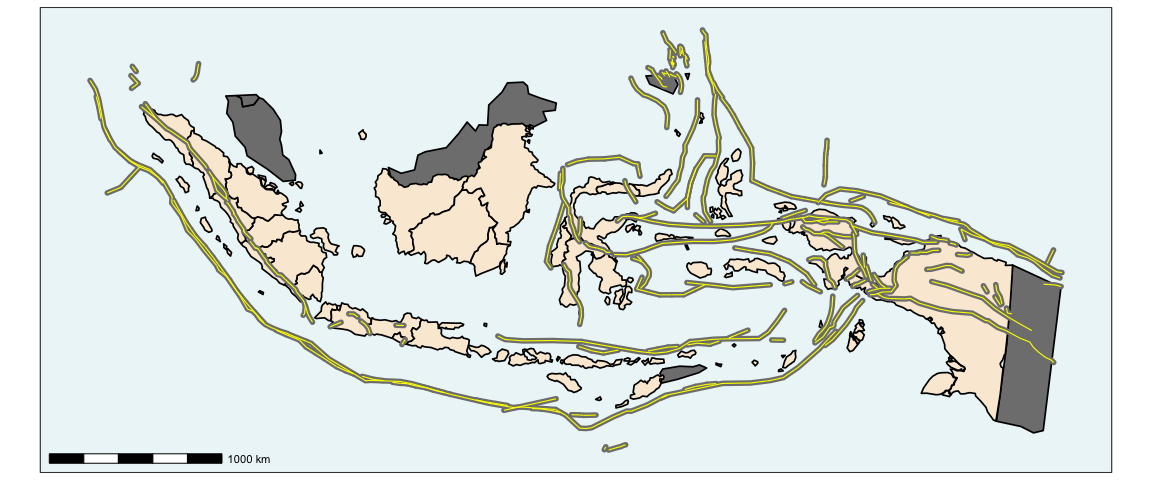
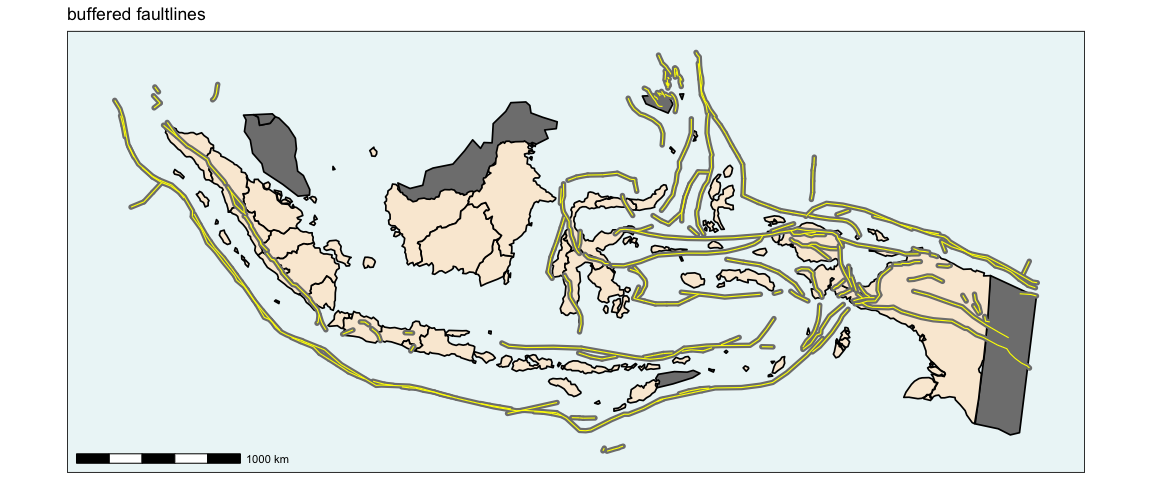
improved annotation

diff --git a/README.md b/README.md
@@ -143,11 +143,14 @@ The category of fault is an attribute of **faults_df**:
 
 #### faultline concentration
 
-To get an interpretable measure of faultline concentration in any area,
-they are transform from linestrings to polygons by setting a buffer of
-10km around them, as shown below. This is now in units of kilometres
-squared and be compared with the area of administrative units to give
-concentrations.
+To get an interpretable measure of faultline concentration in any area
+for use in **provinces_df** and **counties_df**, they are transformed
+from linestrings to polygons by setting a buffer of 10km around them, as
+shown below. This is now in units of kilometres squared and be compared
+with the area of administrative units to give concentrations.
+
+We can subsequently measure what proportion of any administrative unit
+is covered by these buffered faultlines.
 
 ![](README_files/figure-gfm/unnamed-chunk-7-1.png)<!-- -->
 
